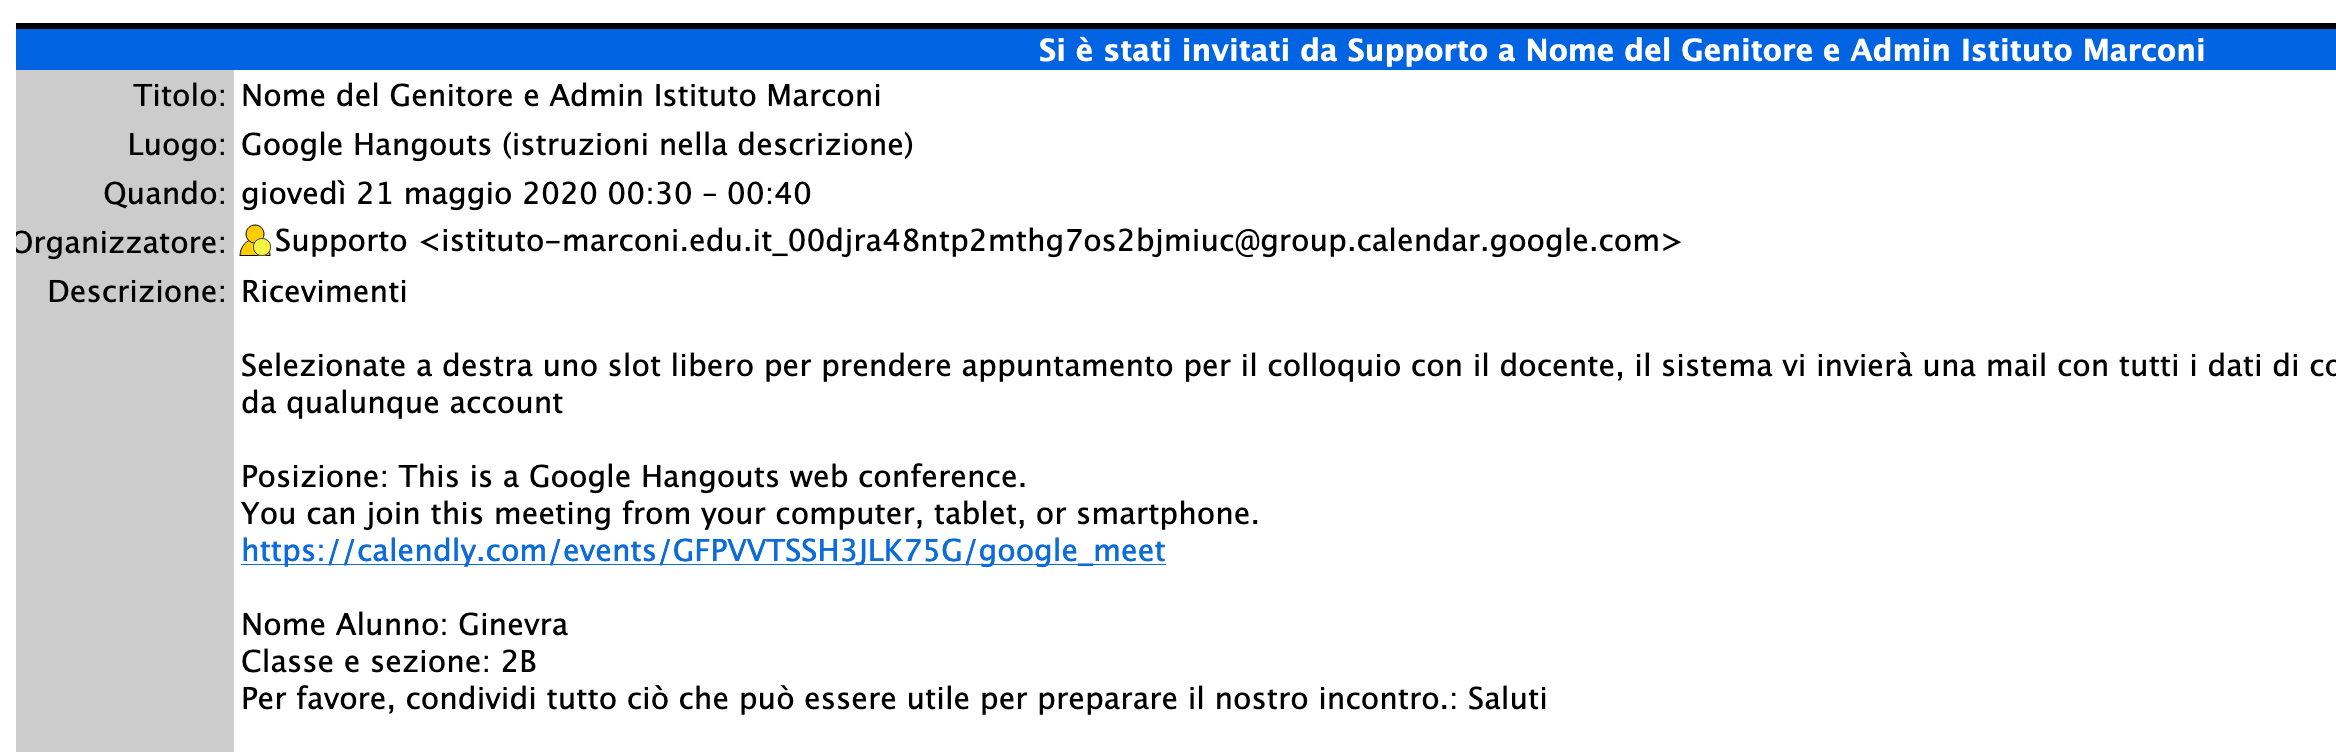
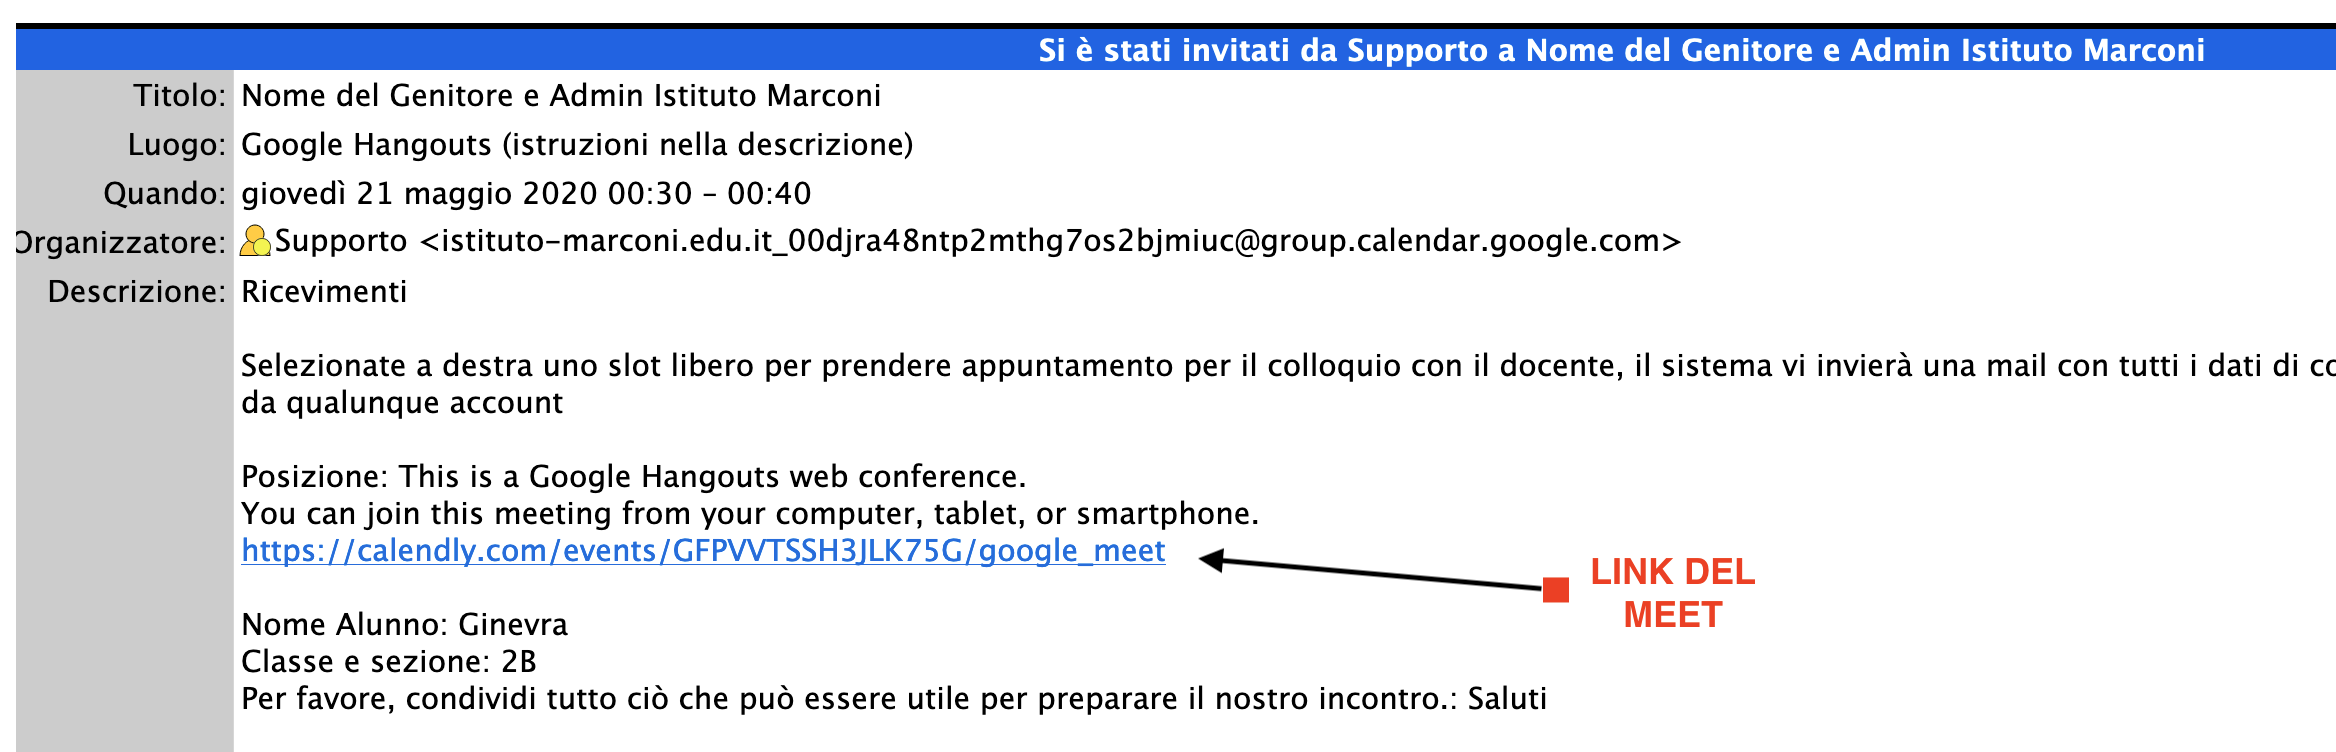
s

diff --git a/ricevimenti.md b/ricevimenti.md
@@ -7,10 +7,14 @@ layout: page
 
 Per prenotare un colloquio con il docente cliccare su PRENOTA vicino al nome del docente interessato e scegliere il giorno e l'orario tra quelli disponibili.<br>
 
-![esempio ricevimenti1](/images/Schermata 2020-05-17 alle 14.37.41.png)
+![esempio ricevimenti1](/images/Schermata 2020-05-17 alle 14.39.12.png)
 
 Per la prenotazione si deve inserire il proprio nome, un indirizzo mail, il nome e la classe dell'alunno. <br>
-Per la conferma della prenotazione riceverete una mail all'indirizzo inserito, che contiene tutti i riferimenti ed il link a Meet da utilizzare per il colloquio con quel docente<br>
+
+![esempio ricevimenti1](/images/Schermata 2020-05-17 alle 14.37.41.png)
+
+
+Come conferma della prenotazione riceverete una mail all'indirizzo che avete inserito, mail che contiene tutti i riferimenti ed il link a Meet da utilizzare per il colloquio con quel docente<br>
 
 Per ogni docente e quindi per ogni materia dovrete effettuare una prenotazione ricevendo la relativa conferma tramite mail, tenete conto quindi di prenotare i colloqui non tutti nello stesso orario ma scadenzati l'uno dall'altro in modo da potervi partecipare senza sovrapposizioni.<br>
 
